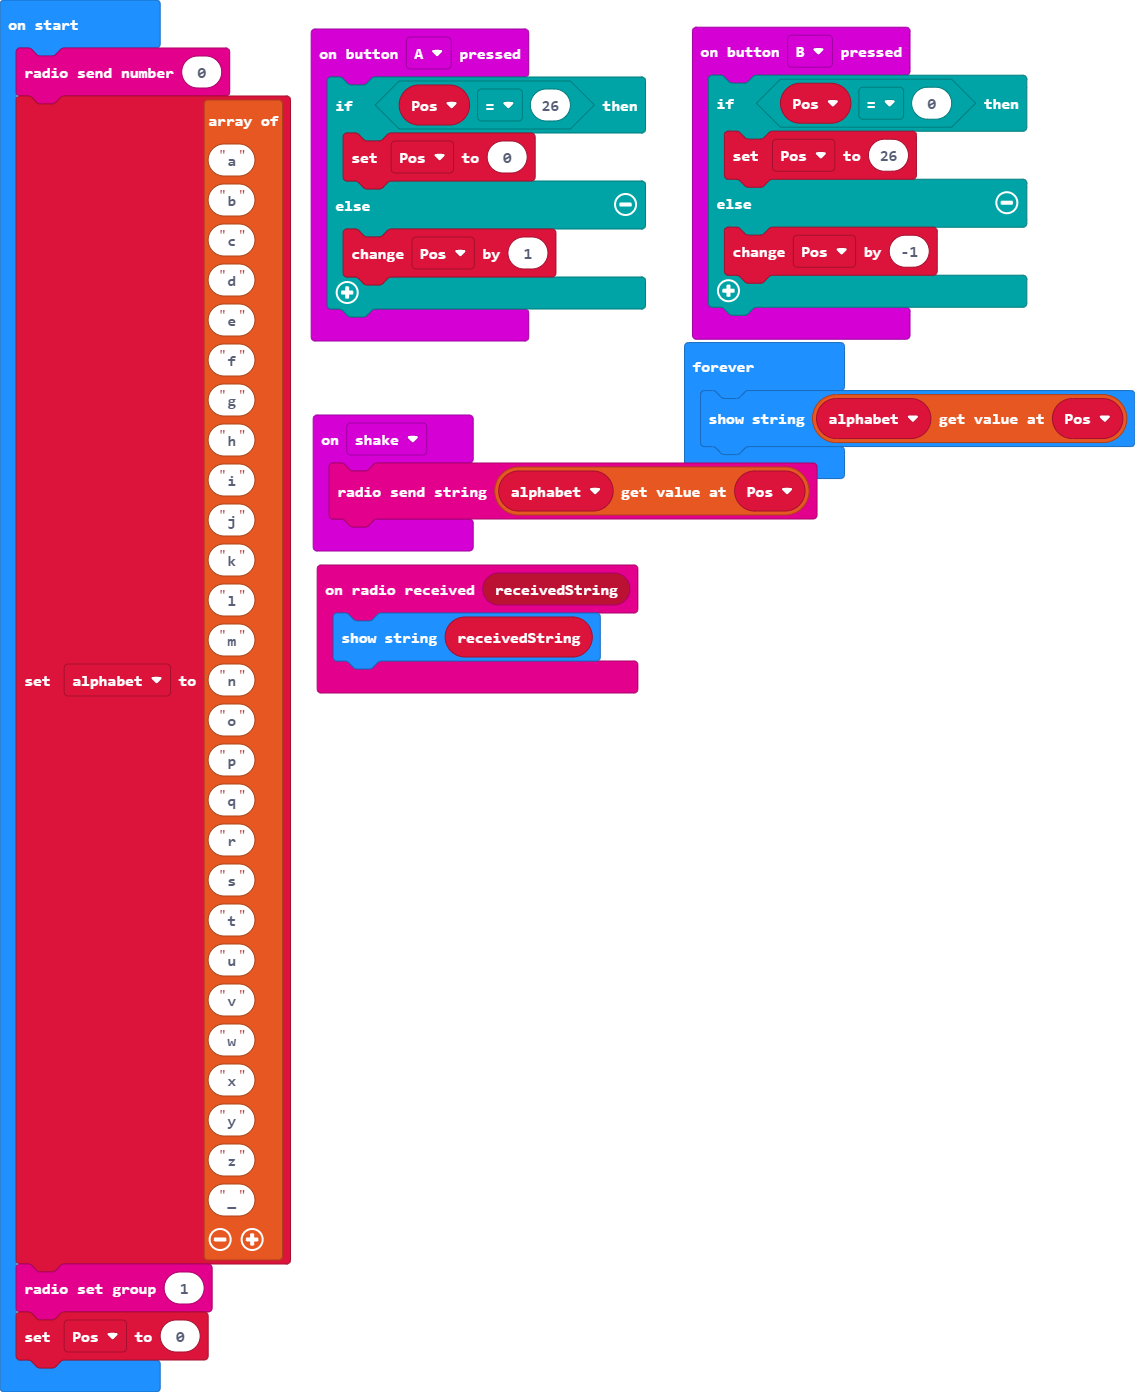
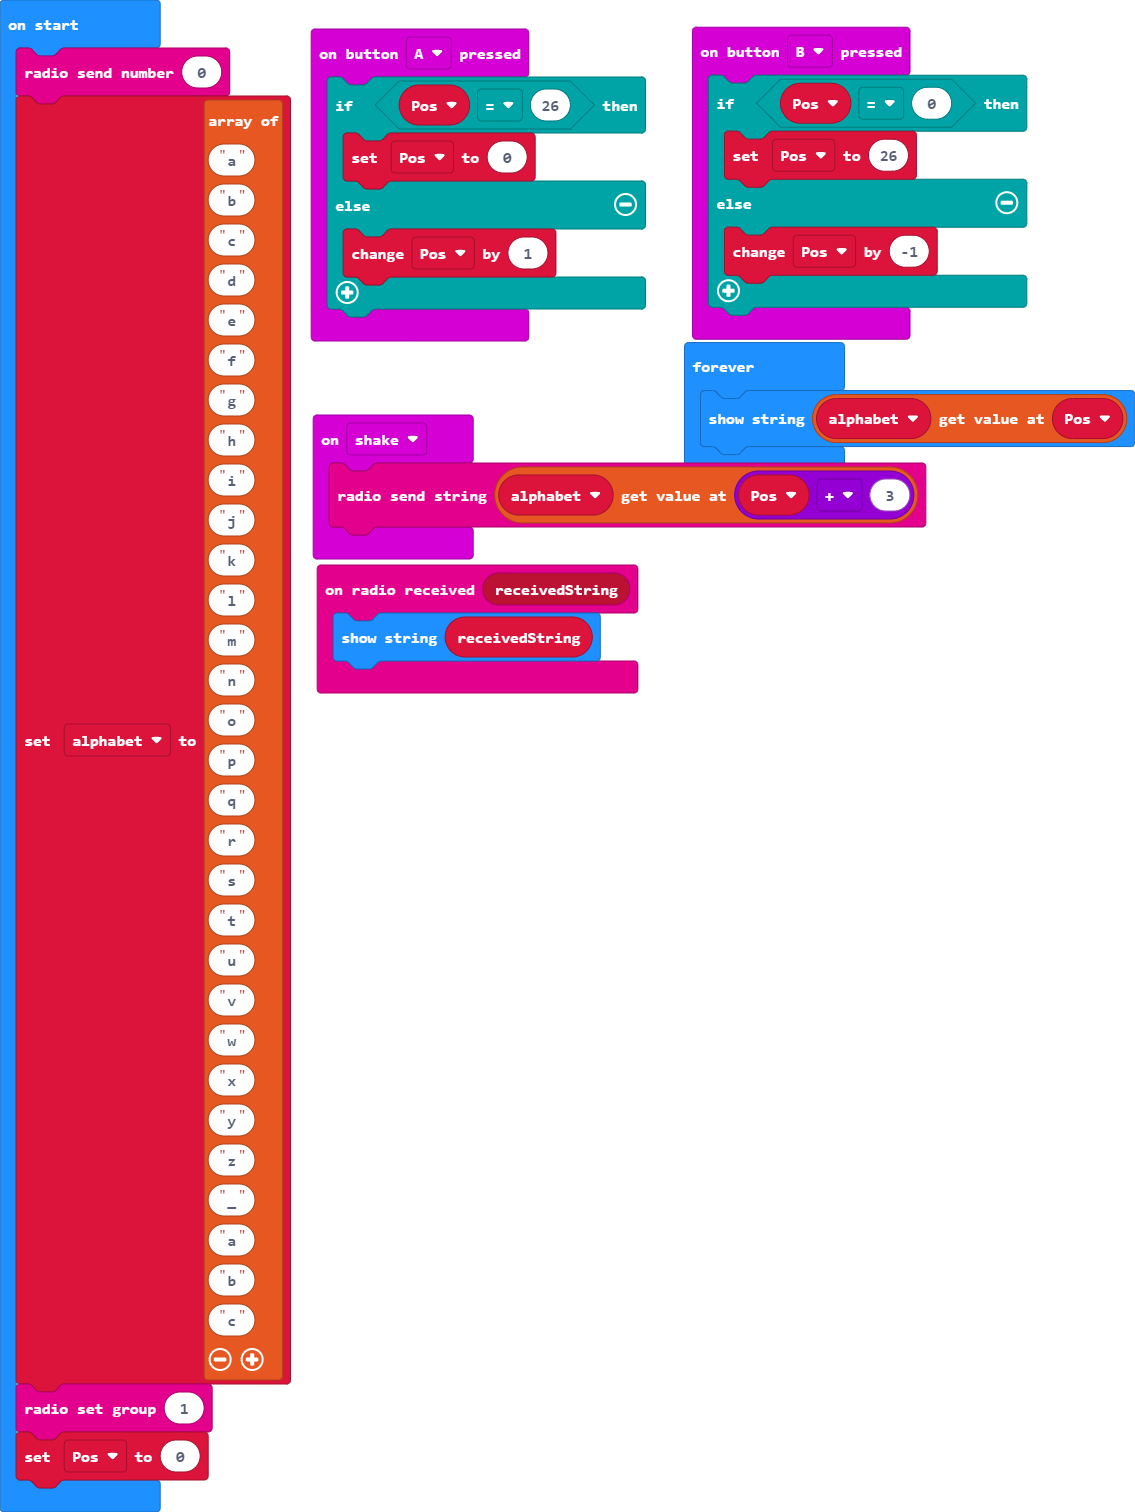
added encryption

Changed region(s): [[0.2775, 0.0, 1.0, 0.5251], [0.0, 0.0, 0.2467, 0.9885]]

diff --git a/main.ts b/main.ts
@@ -16,7 +16,7 @@ input.onButtonPressed(Button.B, function () {
     }
 })
 input.onGesture(Gesture.Shake, function () {
-    radio.sendString("" + (alphabet[Pos]))
+    radio.sendString("" + (alphabet[Pos + 3]))
 })
 let Pos = 0
 let alphabet: string[] = []
@@ -48,7 +48,10 @@ alphabet = [
 "x",
 "y",
 "z",
-"_"
+"_",
+"a",
+"b",
+"c"
 ]
 radio.setGroup(1)
 Pos = 0
